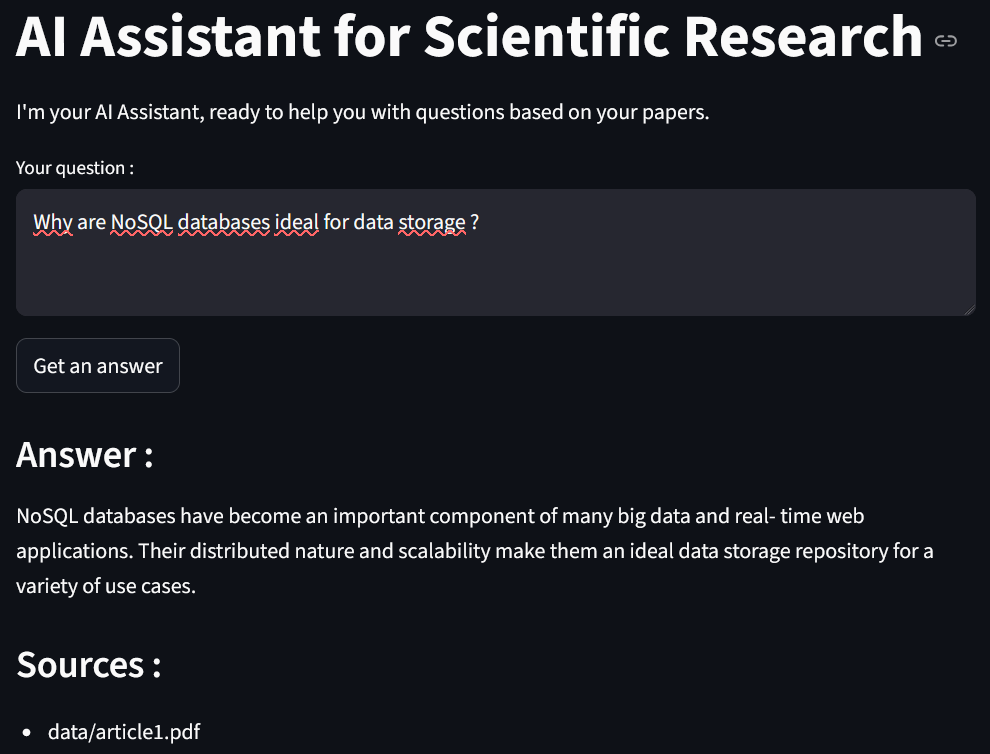
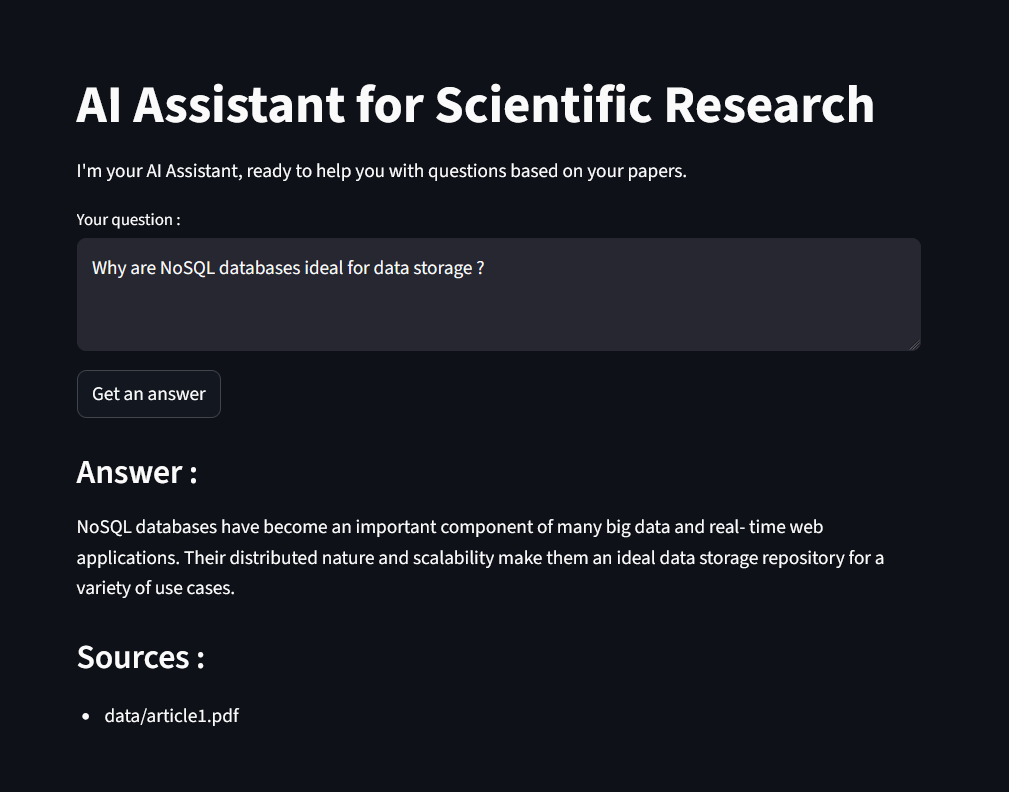
Modification du Readme file

diff --git a/app.py b/app.py
@@ -8,7 +8,7 @@ st.title("AI Assistant for Scientific Research")
 st.write("I'm your AI Assistant, ready to help you with questions based on your papers.")
 
 # Champ pour poser une question
-question = st.text_area("Your question :", "") # Par exemple : Why are NoSQL databases ideal for data storage ?
+question = st.text_area("Your question :", "")
 
 if st.button("Get an answer") and question:
     with st.spinner("Please wait while I find your answer..."):

diff --git a/README.md b/README.md
@@ -43,9 +43,10 @@ pip install -r requirements.txt
 ```
 streamlit run app.py
 ```
-![](D:\Assistant_recherche_IA\pythonProject\apercu.png)
-
 3. Posez vos questions
 * Entrez votre question dans la zone de texte.
 * Cliquez sur Get an answer.
 * Visualisez la réponse générée par l’IA ainsi que les sources.
+
+## Aperçu de l'application
+![Aperçu de l’application](apercu.png)
